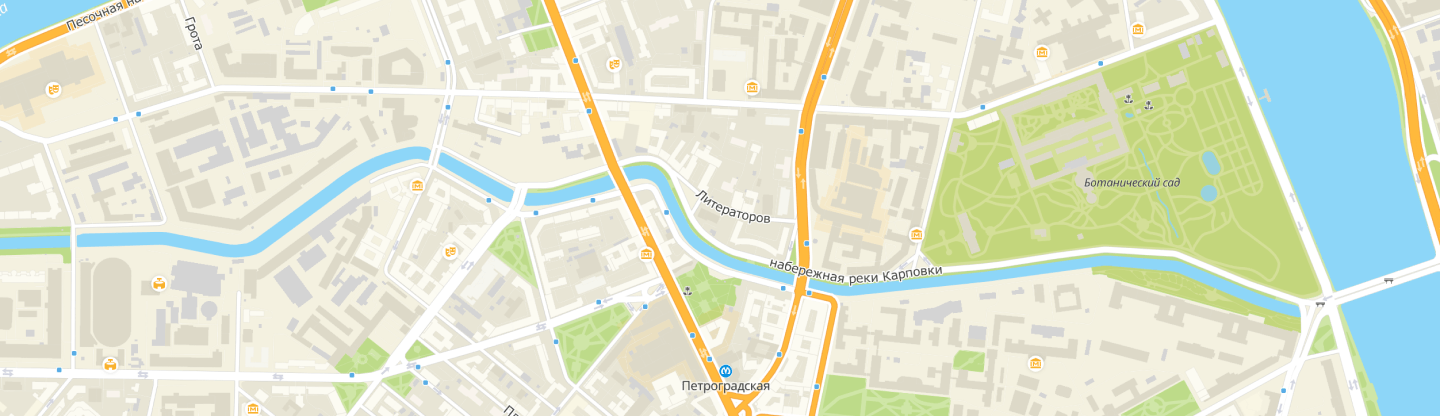
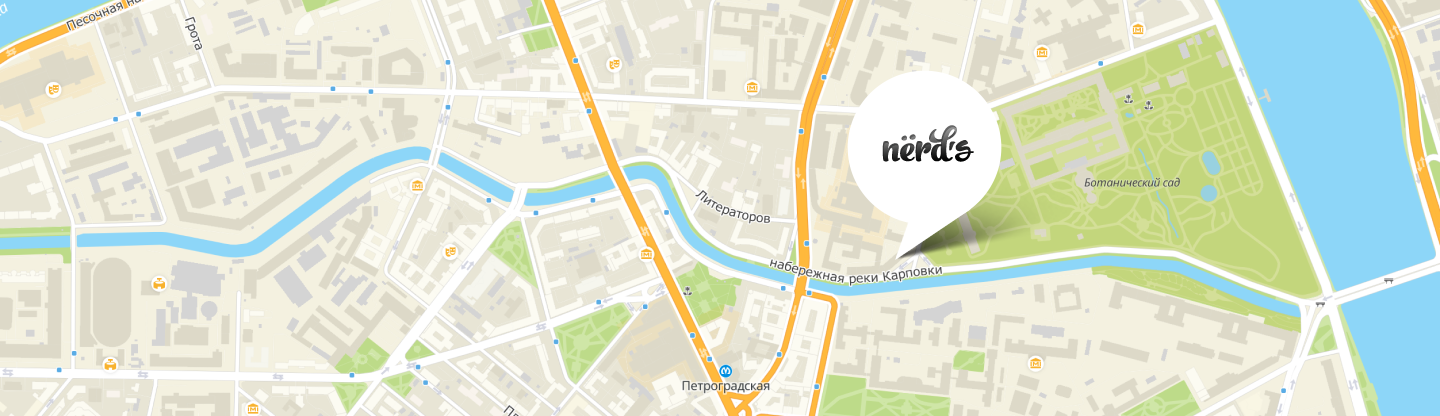
Добавляет интерактивную карту

Changed region(s): [[0.5625, 0.1562, 0.7188, 0.625]]

diff --git a/index.html b/index.html
@@ -149,19 +149,21 @@
   <footer class="page-footer">
     <section class="footer-contacts">
       <h2 class="visually-hidden">Контакты</h2>
-      <div class="contacts-information-map-wrapper">
-        <img class="contacts-information-map" alt="Карта с расположением офиса." src="images/contacts-map.png"
-          width="1440" height="416">
-        <img class="contacts-information-map-marker" alt="Маркер с расположением офиса." src="images/map-marker.png"
-          width="231" height="190">
-      </div>
-      <div class="contacts-content-wrapper">
+      <div class="contacts-content-wrapper container">
         <div class="contacts-information-card">
           <h3 class="contacts-information-card-title">NЁRDS DESIGN STUDIO</h3>
           <p class="contacts-information-card-description-adress">наб. Реки Карповки, <br>5 лит П, Санкт-Петербург</p>
           <a class="contacts-information-card-description-phone" href="tel:+78005558628">+7 800 555-86-28</a>
           <button class="button button-red button-contacts" type="submit">Напишите нам</button>
         </div>
+      </div>
+      <div class="contacts-information-map-wrapper">
+        <iframe class="contacts-map"
+          src="https://www.google.com/maps/embed?pb=!1m18!1m12!1m3!1d499.2056417313396!2d30.316861729268442!3d59.96826667006346!2m3!1f0!2f0!3f0!3m2!1i1024!2i768!4f13.1!3m3!1m2!1s0x4696315bc48a26c9%3A0x8a49e1486716f5b1!2z0L3QsNCxLiBQ0LXQutC4INCa0LDRgNC_0L7QstC60LgsIDXQnywg0KHQsNC90LrRgi3Qn9C10YLQtdGA0LHRg9GA0LMsIDE5NzAyMg!5e0!3m2!1sru!2sru!4v1662388285083!5m2!1sru!2sru"
+          width="1440" height="416" style="border:0;" allowfullscreen loading="lazy"
+          referrerpolicy="no-referrer-when-downgrade"></iframe>
+          <img class="contacts-information-map" alt="Карта с расположением офиса." src="images/contacts-map.png"
+          width="1440" height="416">
       </div>
     </section>
     <div class="footer-info-wrapper">
@@ -218,19 +220,18 @@
           <div class="field-group-wrapper">
             <div class="field-group">
               <label class="field-group-label" for="name">Ваше имя:</label>
-              <input class="feedback-form-field" type="text" id="name" name="name"
-                required placeholder="Имя Фамилия">
+              <input class="feedback-form-field" type="text" id="name" name="name" required placeholder="Имя Фамилия">
             </div>
             <div class="field-group">
               <label class="field-group-label" for="email">Ваш email:</label>
-              <input class="feedback-form-field" type="email" id="email" name="email"
-                required placeholder="email@example.com">
+              <input class="feedback-form-field" type="email" id="email" name="email" required
+                placeholder="email@example.com">
             </div>
           </div>
           <div class="field-group field-group-feedback-letter">
             <label class="field-group-label" for="feedback-letter">Текст письма:</label>
-            <textarea class="feedback-form-field-feedback-letter" id="feedback-letter"
-              cols="15" rows="5" required placeholder="В свободной форме"></textarea>
+            <textarea class="feedback-form-field-feedback-letter" id="feedback-letter" cols="15" rows="5" required
+              placeholder="В свободной форме"></textarea>
           </div>
           <button class="button button-red modal-button">Отправить</button>
         </form>

diff --git a/catalog.html b/catalog.html
@@ -302,19 +302,21 @@
   <footer class="page-footer">
     <section class="footer-contacts">
       <h2 class="visually-hidden">Контакты</h2>
-      <div class="contacts-information-map-wrapper">
-        <img class="contacts-information-map" alt="Карта с расположением офиса." src="images/contacts-map.png"
-          width="1440" height="416">
-        <img class="contacts-information-map-marker" alt="Маркер с расположением офиса." src="images/map-marker.png"
-          width="231" height="190">
-      </div>
-      <div class="contacts-content-wrapper">
+      <div class="contacts-content-wrapper container">
         <div class="contacts-information-card">
           <h3 class="contacts-information-card-title">NЁRDS DESIGN STUDIO</h3>
           <p class="contacts-information-card-description-adress">наб. Реки Карповки, <br>5 лит П, Санкт-Петербург</p>
           <a class="contacts-information-card-description-phone" href="tel:+78005558628">+7 800 555-86-28</a>
           <button class="button button-red button-contacts" type="submit">Напишите нам</button>
         </div>
+      </div>
+      <div class="contacts-information-map-wrapper">
+        <iframe class="contacts-map"
+          src="https://www.google.com/maps/embed?pb=!1m18!1m12!1m3!1d499.2056417313396!2d30.316861729268442!3d59.96826667006346!2m3!1f0!2f0!3f0!3m2!1i1024!2i768!4f13.1!3m3!1m2!1s0x4696315bc48a26c9%3A0x8a49e1486716f5b1!2z0L3QsNCxLiBQ0LXQutC4INCa0LDRgNC_0L7QstC60LgsIDXQnywg0KHQsNC90LrRgi3Qn9C10YLQtdGA0LHRg9GA0LMsIDE5NzAyMg!5e0!3m2!1sru!2sru!4v1662388285083!5m2!1sru!2sru"
+          width="1440" height="416" style="border:0;" allowfullscreen loading="lazy"
+          referrerpolicy="no-referrer-when-downgrade"></iframe>
+          <img class="contacts-information-map" alt="Карта с расположением офиса." src="images/contacts-map.png"
+          width="1440" height="416">
       </div>
     </section>
     <div class="footer-info-wrapper">

diff --git a/styles/styles.css b/styles/styles.css
@@ -380,15 +380,16 @@ a {
 
 .footer-contacts {
   position: relative;
-  width: 1440px;
-  margin: 0 auto;
   margin-bottom: 69px;
+  z-index: 0;
 }
 
+
 .contacts-content-wrapper {
-  position: absolute;
-  top: 0;
-  left: 140px;
+  display: grid;
+  grid-template-columns: 1fr 1fr;
+  width: 1158px;
+  margin: 0 auto;
   padding: 54px 0;
 }
 
@@ -398,6 +399,7 @@ a {
   width: 219px;
   padding: 49px 50px 47px;
   background-color: #FFFFFF;
+  z-index: 3;
 }
 
 .contacts-information-card-title {
@@ -427,21 +429,25 @@ a {
 }
 
 .contacts-information-map-wrapper {
-  position: relative;
+  display: block;
+  margin-right: auto;
+  margin-left: auto;
+}
+
+.contacts-map {
+  position: absolute;
+  top: 0;
+  left: 0;
+  width: 100%;
+  height: 100%;
+  z-index: 2;
 }
 
 .contacts-information-map {
-  display: block;
-  width: 1440px;
-  height: 416px;
-}
-
-.contacts-information-map-marker {
   position: absolute;
-  top: 70px;
-  right: 362px;
-  width: 231px;
-  height: 190px;
+  top: 0;
+  left: 0;
+  z-index: 1;
 }
 
 .footer-info-wrapper {
